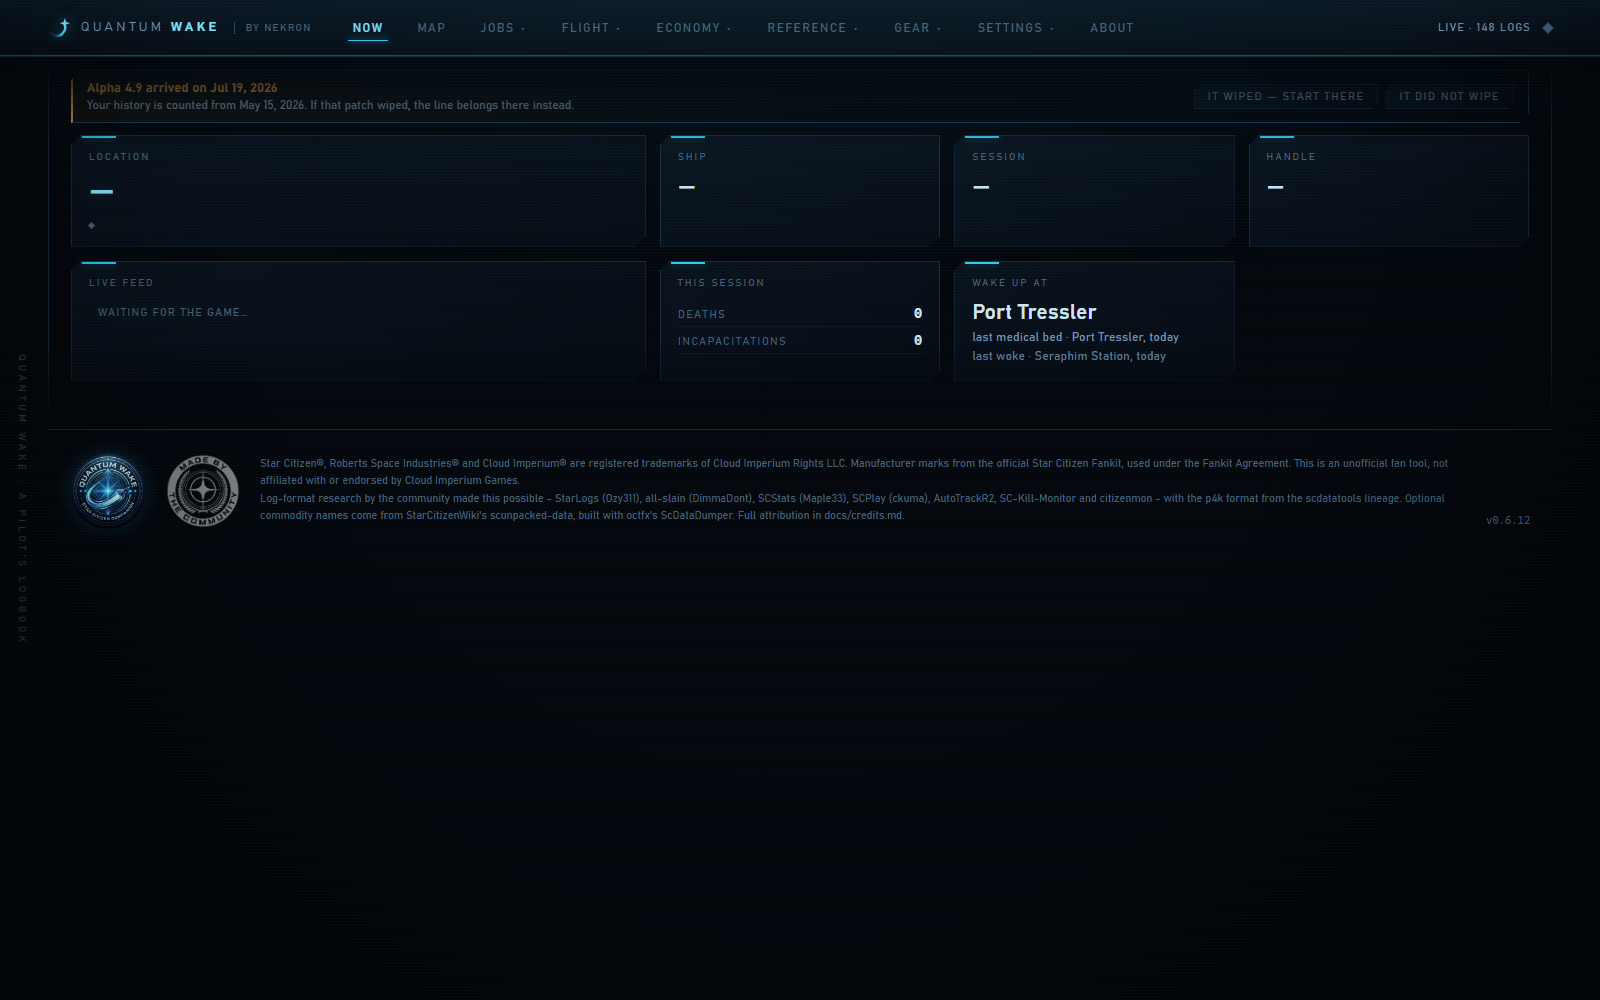
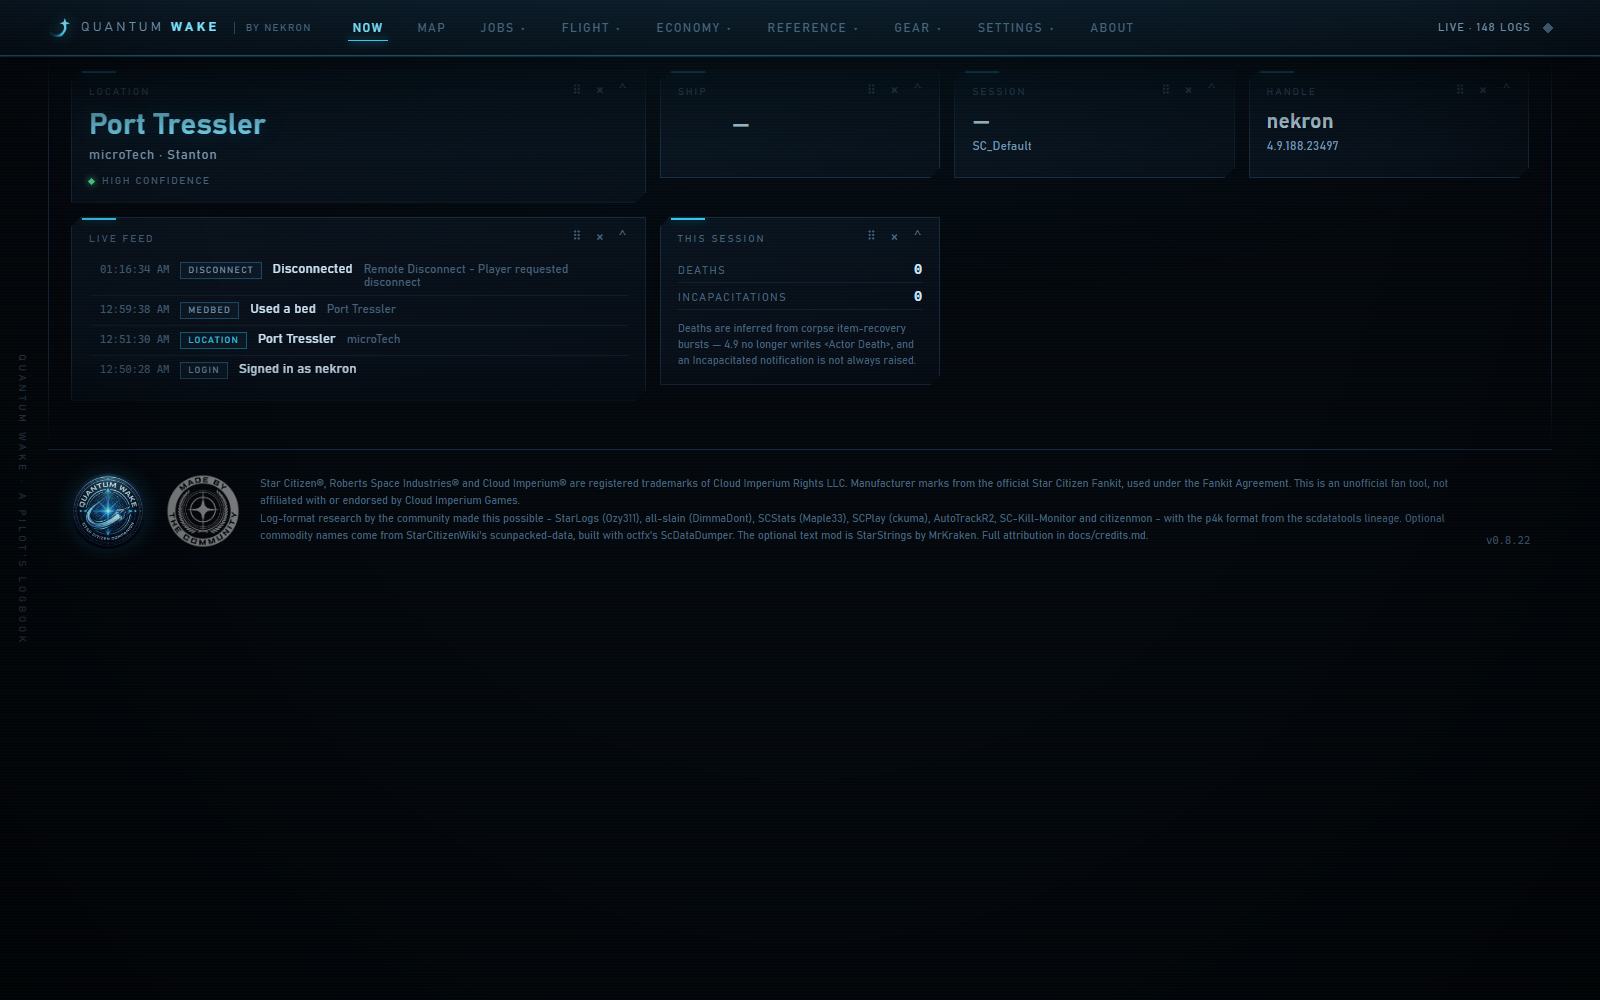
0.8.23 - say the true number, and shoot the page as it is now
Three claims in the documentation had stopped being true.

The test badge said 473. Two suites run 795 - 194 web and 601 parser - and the
line under "dotnet test" said 473 as well. The commit that set that number was
called "Reshoot every screenshot, and count the tests honestly", which is the
standard this repo holds itself to, so the number is counted again rather than
rounded or left.

The tray was described as opening the dashboard, showing the overlay, or
quitting. It checks for a new version too, as of the previous commit, and the
first paragraph anybody reads is a poor place to be a version behind. The Now
row in the feature table now mentions that its cards can be hidden, collapsed
and dragged, which is the whole of what changed on that page.

docs/images/now.png was stamped 0.6.12 - fifteen versions back, from before
the cards had any controls at all - despite being touched by that same
reshoot. Retaken at 0.8.23 against the real install, at the 1600x1000 every
other screenshot uses, with the grip, hide and collapse visible on each card
and the update prompt answered so it is not caught mid-question.

The other eleven screenshots are left alone. They were genuinely reshot in
August and nothing in this branch changes what they show.

diff --git a/README.md b/README.md
@@ -8,7 +8,7 @@
 ![.NET 10](https://img.shields.io/badge/.NET-10-512BD4)
 ![Windows 10/11](https://img.shields.io/badge/Windows-10%20%2F%2011-0078D6)
 ![Licence Apache 2.0](https://img.shields.io/badge/licence-Apache--2.0-blue)
-![473 tests](https://img.shields.io/badge/tests-473%20passing-4fd48a)
+![795 tests](https://img.shields.io/badge/tests-795%20passing-4fd48a)
 ![Network](https://img.shields.io/badge/network-opt--in%20only-46617a)
 
 Star Citizen writes everything you do to `Game.log` and then rotates it away.
@@ -35,11 +35,11 @@ install, nothing to unpack or configure. It finds your Star Citizen install
 itself, across every fixed drive.
 
 It then sits in the notification area. Right-click to open the dashboard, show
-or hide the overlay, or quit. The in-game overlay is off until you turn it on -
-from the Settings page or the tray - and the choice is remembered. The overlay
-arrives ready to move; its **📌 pin** button puts it out of the way so clicks
-reach the game, and the tray icon (or `Ctrl+Alt+O`) brings it back. The
-dashboard is on <http://127.0.0.1:31337>.
+or hide the overlay, check for a new version, or quit. The in-game overlay is
+off until you turn it on - from the Settings page or the tray - and the choice
+is remembered. The overlay arrives ready to move; its **📌 pin** button puts it
+out of the way so clicks reach the game, and the tray icon (or `Ctrl+Alt+O`)
+brings it back. The dashboard is on <http://127.0.0.1:31337>.
 
 Windows will warn that the publisher is unknown — the binary is not code signed,
 which costs money a free fan tool does not have. **More info → Run anyway**.
@@ -65,7 +65,7 @@ events, not a radar.*
 |---|---|
 | **Flight plan** | Where to go next and the rest of the run, on the Now page and drawn over the map as numbered stops. Built from a trade route, a shopping list, or by hand — and stops cross themselves off as you land |
 | **Shopping** | Lists that hold cargo and ship parts alike, checked against your stashes. Pick what to add and where you mean to shop, then read the list as a set of landings: every counter that carries any of it, ranked by how much one stop covers, with *fewest stops* to pack the run |
-| **Now** | Where you are with a confidence level, active ship, session clock, quantum destination in flight, live event feed |
+| **Now** | Where you are with a confidence level, active ship, session clock, quantum destination in flight, live event feed. Every card can be hidden, collapsed, or dragged where you want it — the arrangement is remembered |
 | **Map** | Every place in the game across Stanton, Pyro and Nyx — visited ones solid, the rest hollow — with zoom, pan, follow-me mode, per-place detail cards, and a commodity search that lights everywhere a good sells. Picking one opens its cargo panel: best terminals now, your own prices over the last day, three days or seven, and a selling/buying toggle. Double-click a place for what it takes and offers |
 | **Sessions** | Every session you have played, in-game time separated from menu time |
 | **Fleet** | Ships owned over time, flights per ship, estimated time aboard — with role, crew and insurance-claim cost per ship when the community dataset is on. **Upgrades** opens the game's own port list for that ship: what fits each hole, what it costs, and the counter that stocks it |
@@ -263,7 +263,7 @@ Linux-hosted server mode later.
 Only the overlay is Windows-bound, leaving a Linux-hosted server mode open.
 
 ```powershell
-dotnet test Quantumwake.slnx      # 473 tests
+dotnet test Quantumwake.slnx      # 795 tests
 ```
 
 Parser fixtures are real log lines, not synthesised ones — which is how three
@@ -353,7 +353,7 @@ affiliated with or endorsed by Cloud Imperium Games.
 Newest first. Each version's section is what the GitHub release says too — the
 release workflow lifts it from here, so it is written once.
 
-### 0.8.22
+### 0.8.23
 
 - **Check for updates from the tray.** Right-click the Quantum Wake icon
   by the clock and there is a *Check for updates* beside the other
@@ -379,6 +379,9 @@ release workflow lifts it from here, so it is written once.
   quietly missing everything added afterwards.
 - **The “Hidden cards” row no longer labels an empty space.** It was showing
   on every Now page whether anything was hidden or not.
+- Nothing you can see: the README's test count said 473 when 795 run, the
+  tray's description predated its own new item, and the Now screenshot was
+  still showing 0.6.12.
 
 ### 0.8.21
 
